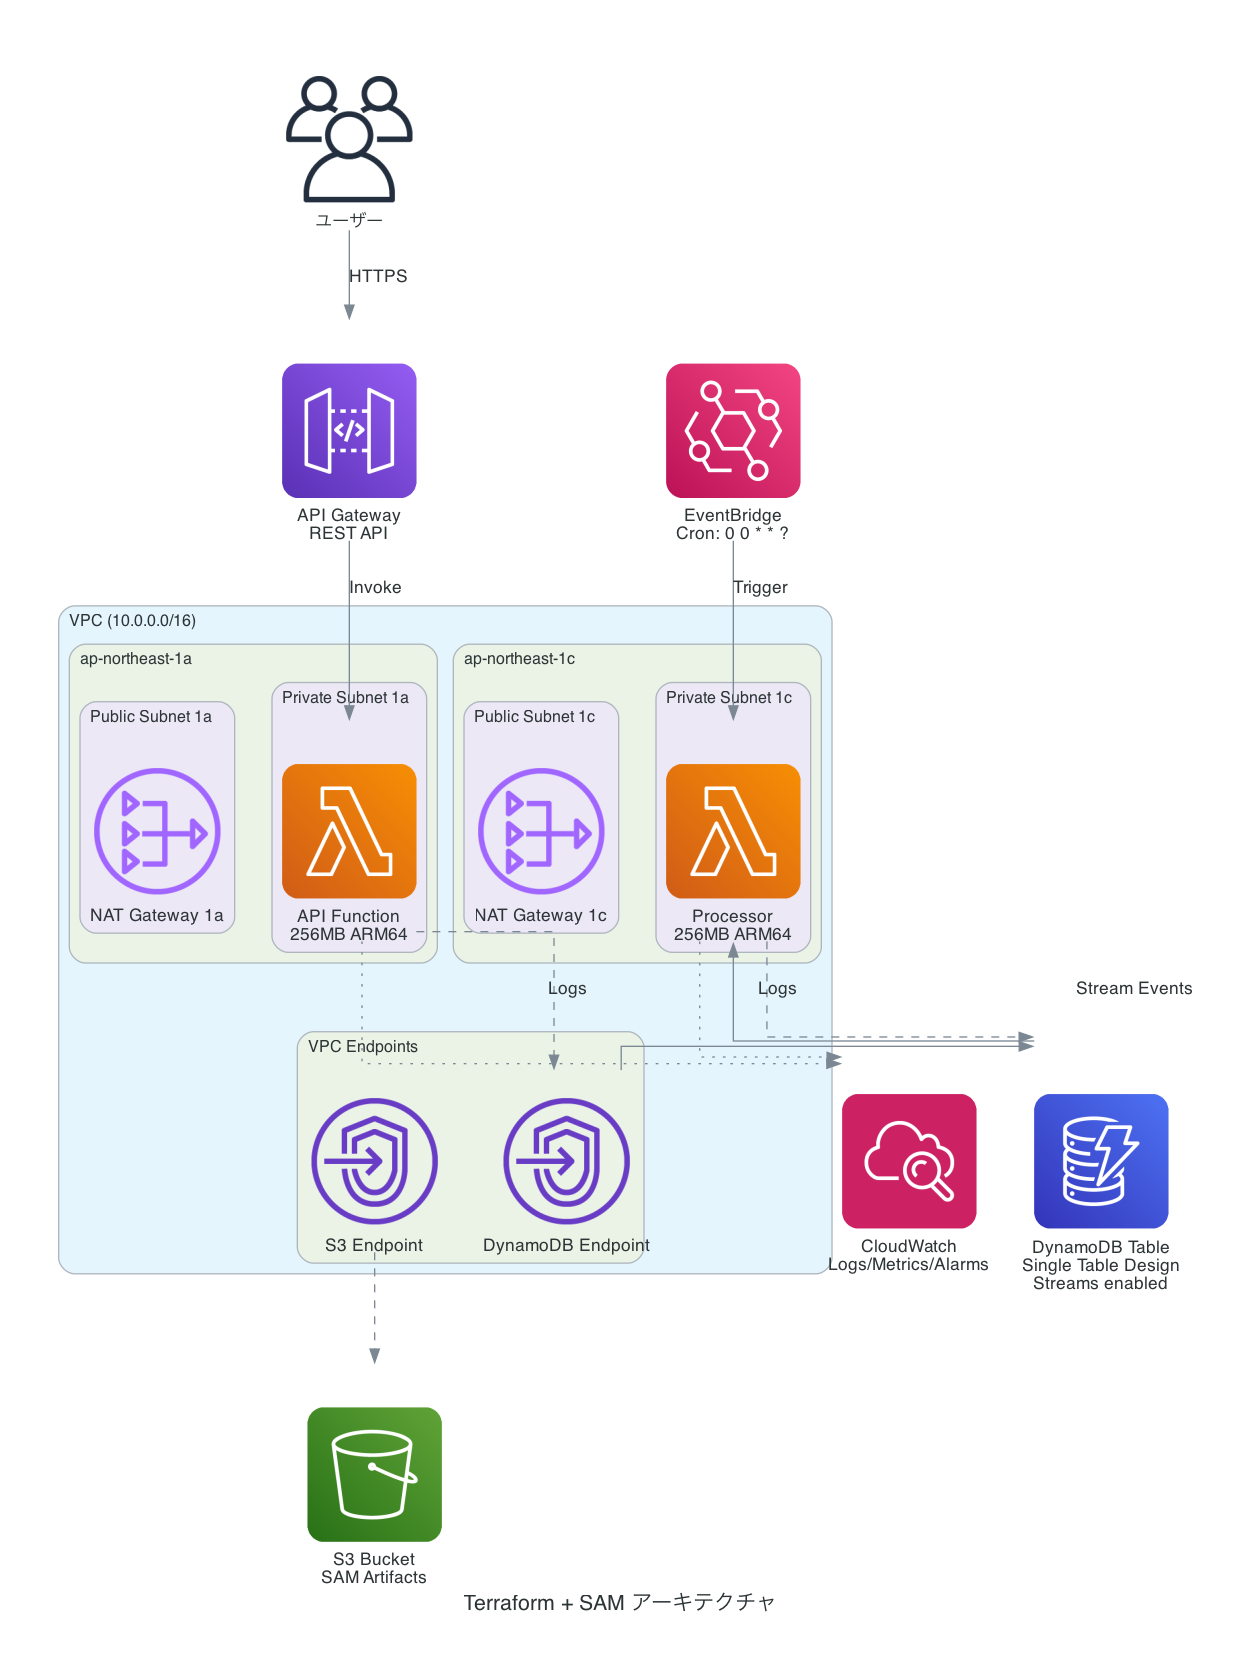
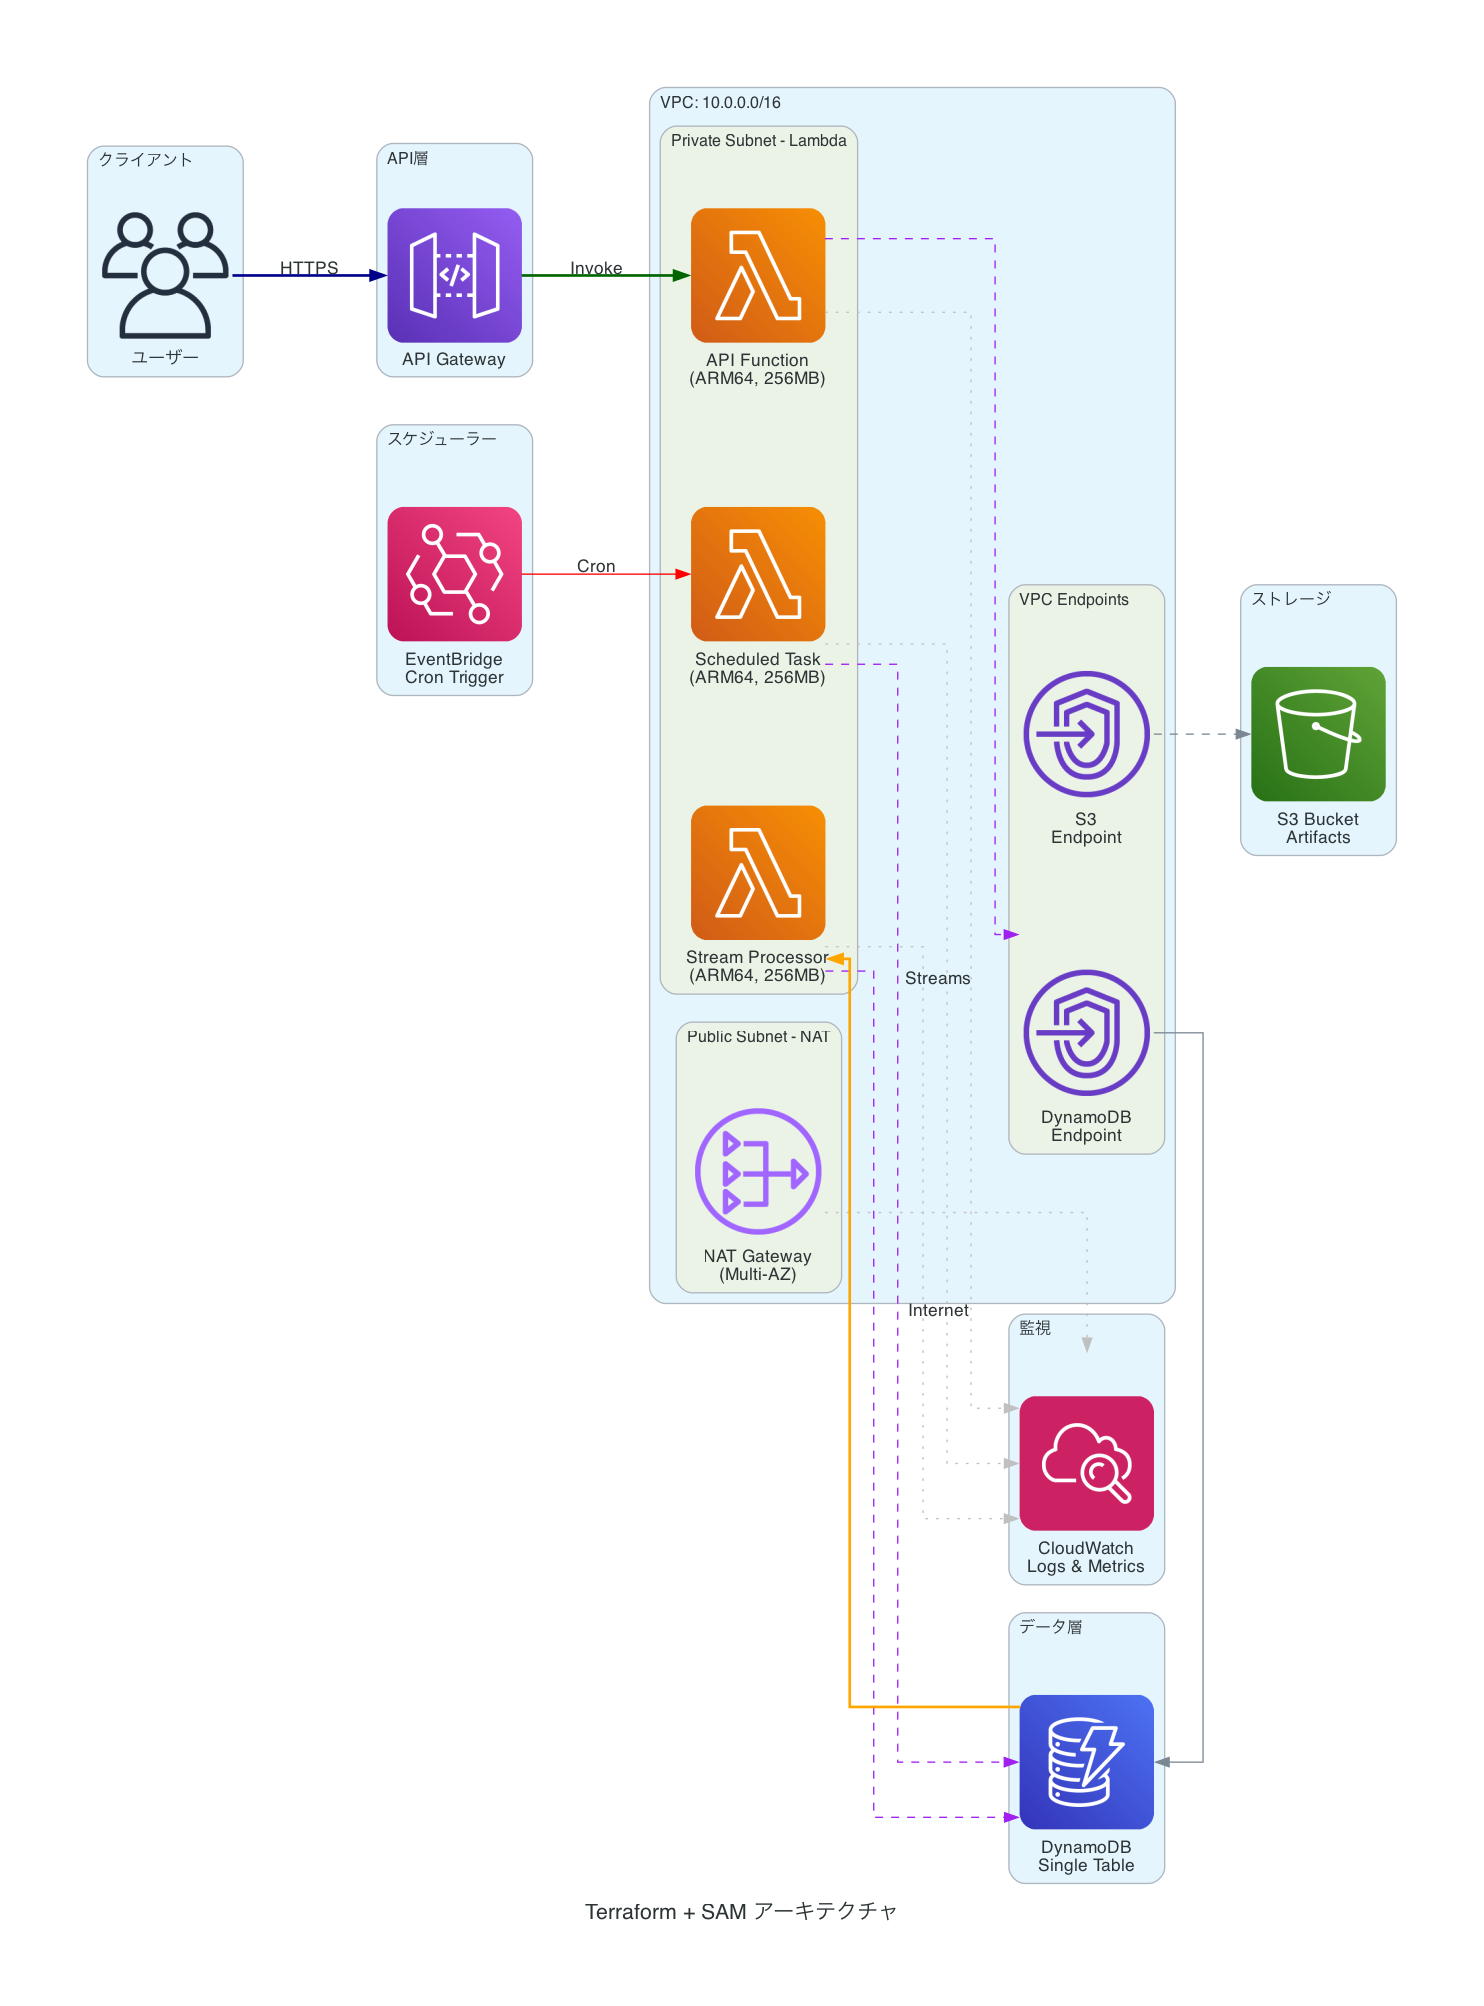
refactor: Improve architecture diagram layouts and styling
- Add proper spacing and alignment (nodesep, ranksep)
- Use orthogonal lines for cleaner appearance
- Add color-coded edges for better flow visualization
- Reorganize clusters for logical grouping
- Number layers in dataflow diagram (①②③④⑤⑥)
- Use Google-inspired color scheme for readability
- Improve font sizes and spacing
- Change main diagram to LR (left-to-right) layout
- Add descriptive labels to all components

Improvements:
- architecture_simple.png: Clean linear flow with numbered steps
- architecture.png: Organized clusters with color-coded connections
- dataflow.png: Layered view with bidirectional flows

🤖 Generated with [Claude Code](https://claude.com/claude-code)

diff --git a/scripts/generate_diagrams.py b/scripts/generate_diagrams.py
@@ -24,88 +24,29 @@ output_dir.mkdir(parents=True, exist_ok=True)
 graph_attr = {
     "fontsize": "16",
     "bgcolor": "white",
-    "pad": "0.5",
+    "pad": "0.8",
+    "splines": "ortho",  # 直角の線
+    "nodesep": "0.8",    # ノード間の間隔
+    "ranksep": "1.0",    # ランク間の間隔
 }
 
-# メインアーキテクチャ図
+node_attr = {
+    "fontsize": "13",
+    "fontname": "Sans-Serif",
+}
+
+edge_attr = {
+    "fontsize": "11",
+}
+
+# メインアーキテクチャ図 - より綺麗なレイアウト
 with Diagram(
     "Terraform + SAM アーキテクチャ",
     filename=str(output_dir / "architecture"),
-    direction="TB",
-    graph_attr=graph_attr,
-    show=False,
-    outformat="png"
-):
-    users = Users("ユーザー")
-    apigw = APIGateway("API Gateway\nREST API")
-
-    with Cluster("VPC (10.0.0.0/16)"):
-        with Cluster("ap-northeast-1a"):
-            with Cluster("Public Subnet 1a"):
-                nat1 = NATGateway("NAT Gateway 1a")
-
-            with Cluster("Private Subnet 1a"):
-                lambda_api_1 = Lambda("API Function\n256MB ARM64")
-
-        with Cluster("ap-northeast-1c"):
-            with Cluster("Public Subnet 1c"):
-                nat2 = NATGateway("NAT Gateway 1c")
-
-            with Cluster("Private Subnet 1c"):
-                lambda_processor = Lambda("Processor\n256MB ARM64")
-
-        with Cluster("VPC Endpoints"):
-            vpc_ep_s3 = Endpoint("S3 Endpoint")
-            vpc_ep_ddb = Endpoint("DynamoDB Endpoint")
-
-    dynamodb = Dynamodb("DynamoDB Table\nSingle Table Design\nStreams enabled")
-    cloudwatch = Cloudwatch("CloudWatch\nLogs/Metrics/Alarms")
-    s3 = S3("S3 Bucket\nSAM Artifacts")
-    eventbridge = Eventbridge("EventBridge\nCron: 0 0 * * ?")
-
-    # データフロー
-    users >> Edge(label="HTTPS") >> apigw
-    apigw >> Edge(label="Invoke") >> lambda_api_1
-
-    lambda_api_1 >> Edge(style="dashed") >> vpc_ep_ddb
-    vpc_ep_ddb >> dynamodb
-
-    dynamodb >> Edge(label="Stream Events") >> lambda_processor
-    lambda_processor >> Edge(style="dashed") >> dynamodb
-
-    eventbridge >> Edge(label="Trigger") >> lambda_processor
-
-    lambda_api_1 >> Edge(style="dotted", label="Logs") >> cloudwatch
-    lambda_processor >> Edge(style="dotted", label="Logs") >> cloudwatch
-
-    vpc_ep_s3 >> Edge(style="dashed") >> s3
-
-# シンプルな図（README用）
-with Diagram(
-    "アーキテクチャ概要",
-    filename=str(output_dir / "architecture_simple"),
     direction="LR",
     graph_attr=graph_attr,
-    show=False,
-    outformat="png"
-):
-    users = Users("ユーザー")
-    apigw = APIGateway("API Gateway")
-
-    with Cluster("VPC"):
-        lambda_api = Lambda("Lambda\nFunctions")
-
-    dynamodb = Dynamodb("DynamoDB")
-    cloudwatch = Cloudwatch("CloudWatch")
-
-    users >> apigw >> lambda_api >> dynamodb >> cloudwatch
-
-# 詳細なデータフロー図
-with Diagram(
-    "データフロー詳細",
-    filename=str(output_dir / "dataflow"),
-    direction="TB",
-    graph_attr=graph_attr,
+    node_attr=node_attr,
+    edge_attr=edge_attr,
     show=False,
     outformat="png"
 ):
@@ -115,39 +56,129 @@ with Diagram(
     with Cluster("API層"):
         apigw = APIGateway("API Gateway")
 
-    with Cluster("アプリケーション層"):
-        with Cluster("VPC Private Subnet"):
-            lambda_api = Lambda("API Lambda")
-            lambda_processor = Lambda("Processor Lambda")
-            lambda_scheduled = Lambda("Scheduled Lambda")
+    with Cluster("VPC: 10.0.0.0/16"):
+        with Cluster("Private Subnet - Lambda"):
+            lambda_api = Lambda("API Function\n(ARM64, 256MB)")
+            lambda_processor = Lambda("Stream Processor\n(ARM64, 256MB)")
+            lambda_scheduled = Lambda("Scheduled Task\n(ARM64, 256MB)")
+
+        with Cluster("Public Subnet - NAT"):
+            nat_gw = NATGateway("NAT Gateway\n(Multi-AZ)")
+
+        with Cluster("VPC Endpoints"):
+            vpc_ddb = Endpoint("DynamoDB\nEndpoint")
+            vpc_s3 = Endpoint("S3\nEndpoint")
 
     with Cluster("データ層"):
         dynamodb = Dynamodb("DynamoDB\nSingle Table")
 
-    with Cluster("監視層"):
-        cloudwatch = Cloudwatch("CloudWatch")
+    with Cluster("ストレージ"):
+        s3 = S3("S3 Bucket\nArtifacts")
+
+    with Cluster("監視"):
+        cloudwatch = Cloudwatch("CloudWatch\nLogs & Metrics")
 
     with Cluster("スケジューラー"):
-        eventbridge = Eventbridge("EventBridge")
+        eventbridge = Eventbridge("EventBridge\nCron Trigger")
 
-    # CRUD操作フロー
-    users >> Edge(label="1. GET/POST/PUT/DELETE") >> apigw
-    apigw >> Edge(label="2. Invoke") >> lambda_api
-    lambda_api >> Edge(label="3. CRUD") >> dynamodb
-    dynamodb >> Edge(label="4. Response") >> lambda_api
-    lambda_api >> Edge(label="5. Response") >> apigw
-    apigw >> Edge(label="6. Response") >> users
+    # メインフロー
+    users >> Edge(color="darkblue", style="bold", label="HTTPS") >> apigw
+    apigw >> Edge(color="darkgreen", style="bold", label="Invoke") >> lambda_api
+    lambda_api >> Edge(color="purple", style="dashed") >> vpc_ddb >> dynamodb
 
-    # Stream処理フロー
-    dynamodb >> Edge(label="Stream Events", style="dashed") >> lambda_processor
-    lambda_processor >> Edge(label="Process", style="dashed") >> dynamodb
+    # Stream処理
+    dynamodb >> Edge(color="orange", style="bold", label="Streams") >> lambda_processor
+    lambda_processor >> Edge(color="purple", style="dashed") >> dynamodb
 
-    # スケジュール処理フロー
-    eventbridge >> Edge(label="Cron Trigger", style="dotted") >> lambda_scheduled
-    lambda_scheduled >> Edge(label="Batch Process", style="dotted") >> dynamodb
+    # スケジュール実行
+    eventbridge >> Edge(color="red", label="Cron") >> lambda_scheduled
+    lambda_scheduled >> Edge(color="purple", style="dashed") >> dynamodb
 
     # ロギング
-    [lambda_api, lambda_processor, lambda_scheduled] >> Edge(label="Logs", color="gray") >> cloudwatch
+    lambda_api >> Edge(color="gray", style="dotted") >> cloudwatch
+    lambda_processor >> Edge(color="gray", style="dotted") >> cloudwatch
+    lambda_scheduled >> Edge(color="gray", style="dotted") >> cloudwatch
+
+    # S3アクセス
+    vpc_s3 >> Edge(style="dashed") >> s3
+    nat_gw >> Edge(color="gray", style="dotted", label="Internet") >> cloudwatch
+
+# シンプルな図（README用） - クリーンなレイアウト
+with Diagram(
+    "システム概要",
+    filename=str(output_dir / "architecture_simple"),
+    direction="LR",
+    graph_attr={**graph_attr, "splines": "spline", "ranksep": "1.5"},
+    node_attr=node_attr,
+    edge_attr=edge_attr,
+    show=False,
+    outformat="png"
+):
+    users = Users("ユーザー")
+    apigw = APIGateway("API Gateway")
+
+    with Cluster("AWS VPC"):
+        lambdas = Lambda("Lambda Functions\n(Python 3.11)")
+
+    dynamodb = Dynamodb("DynamoDB\nTable")
+    cloudwatch = Cloudwatch("CloudWatch\nMonitoring")
+
+    users >> Edge(label="1. HTTPS") >> apigw
+    apigw >> Edge(label="2. Invoke") >> lambdas
+    lambdas >> Edge(label="3. CRUD") >> dynamodb
+    lambdas >> Edge(label="4. Logs", style="dotted") >> cloudwatch
+
+# 詳細なデータフロー図 - 縦型レイアウト
+with Diagram(
+    "データフロー詳細",
+    filename=str(output_dir / "dataflow"),
+    direction="TB",
+    graph_attr={**graph_attr, "splines": "ortho", "ranksep": "1.2"},
+    node_attr=node_attr,
+    edge_attr=edge_attr,
+    show=False,
+    outformat="png"
+):
+    with Cluster("① クライアント層"):
+        users = Users("ユーザー")
+
+    with Cluster("② API ゲートウェイ層"):
+        apigw = APIGateway("API Gateway\nREST API")
+
+    with Cluster("③ アプリケーション層 (VPC)"):
+        lambda_api = Lambda("API Lambda\nCRUD Operations")
+        lambda_processor = Lambda("Stream Processor\nEvent Driven")
+        lambda_scheduled = Lambda("Scheduled Job\nBatch Process")
+
+    with Cluster("④ データ層"):
+        dynamodb = Dynamodb("DynamoDB\nSingle Table Design")
+
+    with Cluster("⑤ イベント層"):
+        eventbridge = Eventbridge("EventBridge\nScheduler")
+
+    with Cluster("⑥ 監視層"):
+        cloudwatch = Cloudwatch("CloudWatch\nLogs & Alarms")
+
+    # メインAPI フロー
+    users >> Edge(color="#1a73e8", style="bold", label="HTTPS Request") >> apigw
+    apigw >> Edge(color="#34a853", style="bold", label="Invoke") >> lambda_api
+    lambda_api >> Edge(color="#ea4335", style="bold", label="Query/Put") >> dynamodb
+    dynamodb >> Edge(color="#34a853", style="dashed", label="Response") >> lambda_api
+    lambda_api >> Edge(color="#1a73e8", style="dashed", label="JSON") >> apigw
+    apigw >> Edge(color="#1a73e8", style="dashed", label="HTTP 200") >> users
+
+    # Stream処理フロー
+    dynamodb >> Edge(color="#fbbc04", style="bold", label="DynamoDB Streams") >> lambda_processor
+    lambda_processor >> Edge(color="#ea4335", style="dashed", label="Update") >> dynamodb
+
+    # スケジュール処理
+    eventbridge >> Edge(color="#9334e6", style="bold", label="Cron: 0 0 * * ?") >> lambda_scheduled
+    lambda_scheduled >> Edge(color="#ea4335", style="bold", label="Batch Update") >> dynamodb
+
+    # ロギング（全Lambda）
+    lambda_api >> Edge(color="#5f6368", style="dotted", label="Logs") >> cloudwatch
+    lambda_processor >> Edge(color="#5f6368", style="dotted", label="Logs") >> cloudwatch
+    lambda_scheduled >> Edge(color="#5f6368", style="dotted", label="Logs") >> cloudwatch
 
 print("✅ アーキテクチャ図を生成しました:")
 print("   - docs/images/architecture.png (詳細版)")
